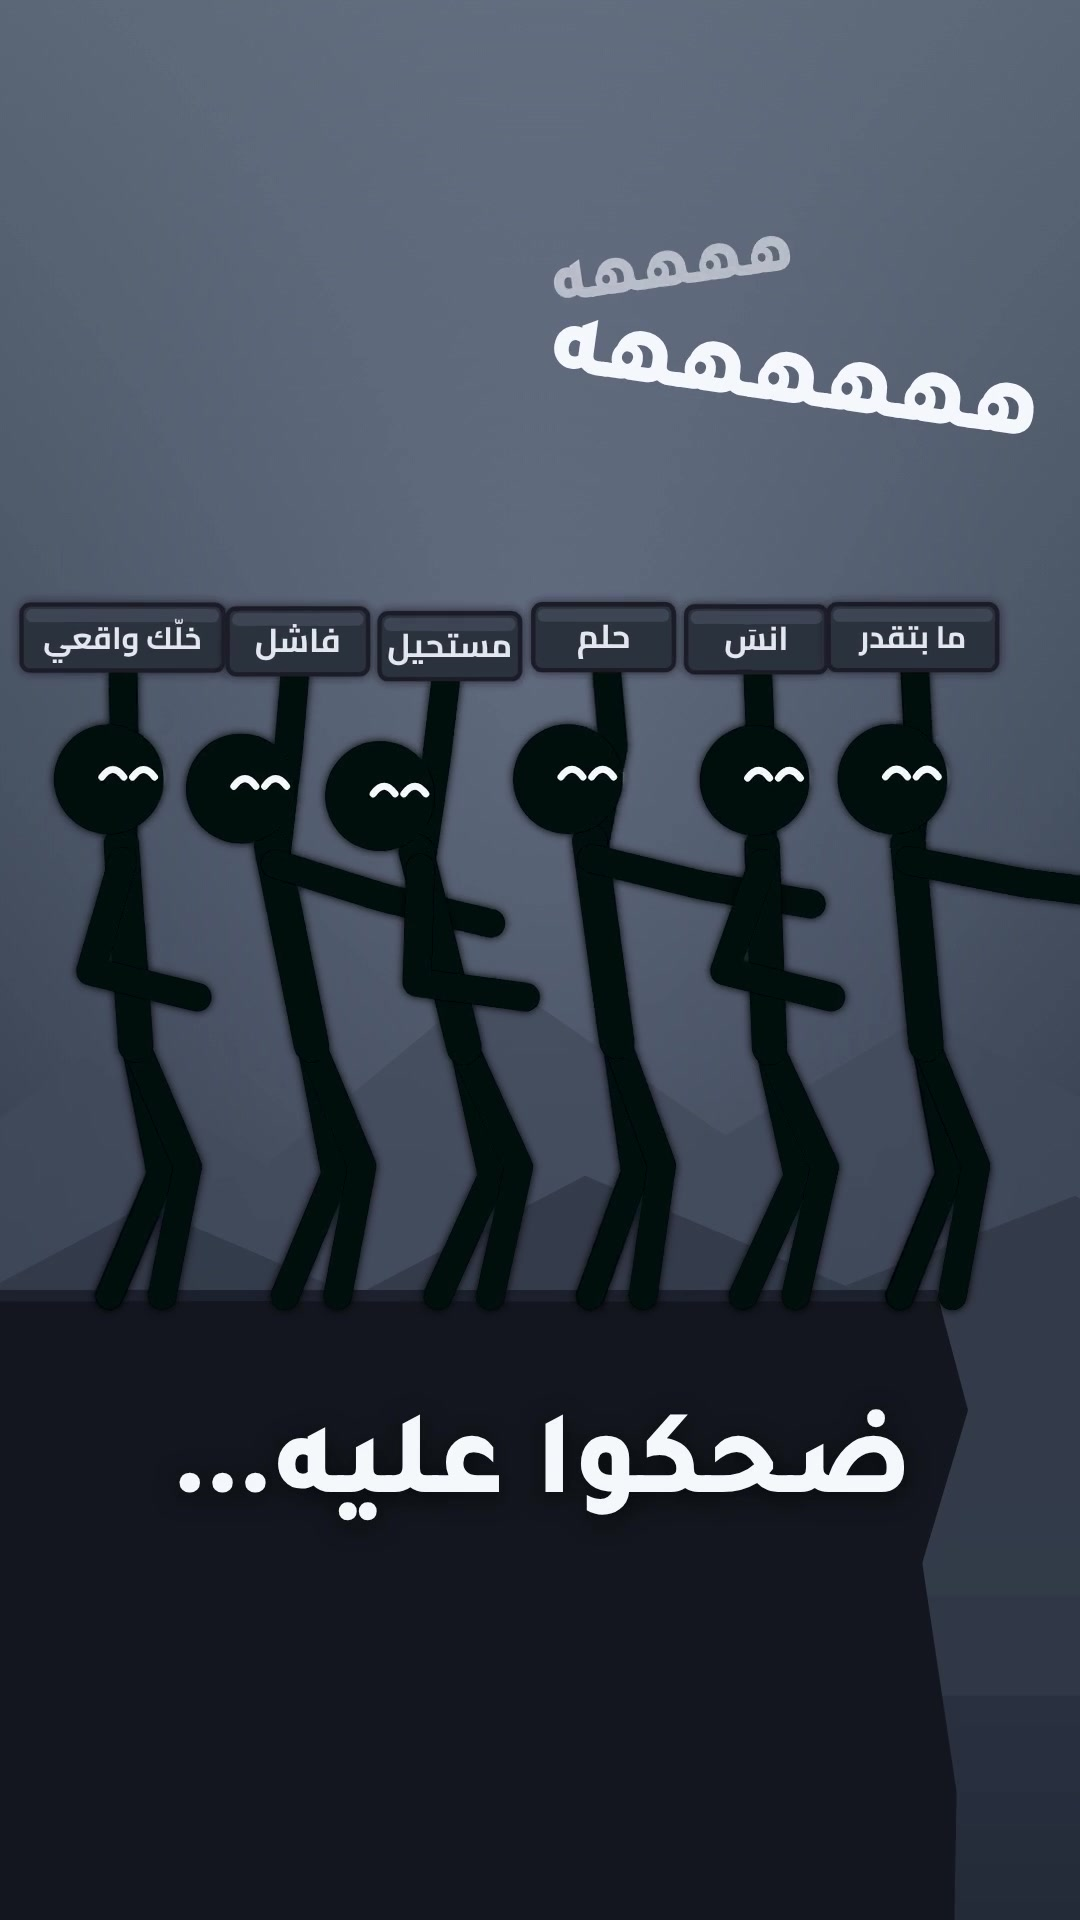
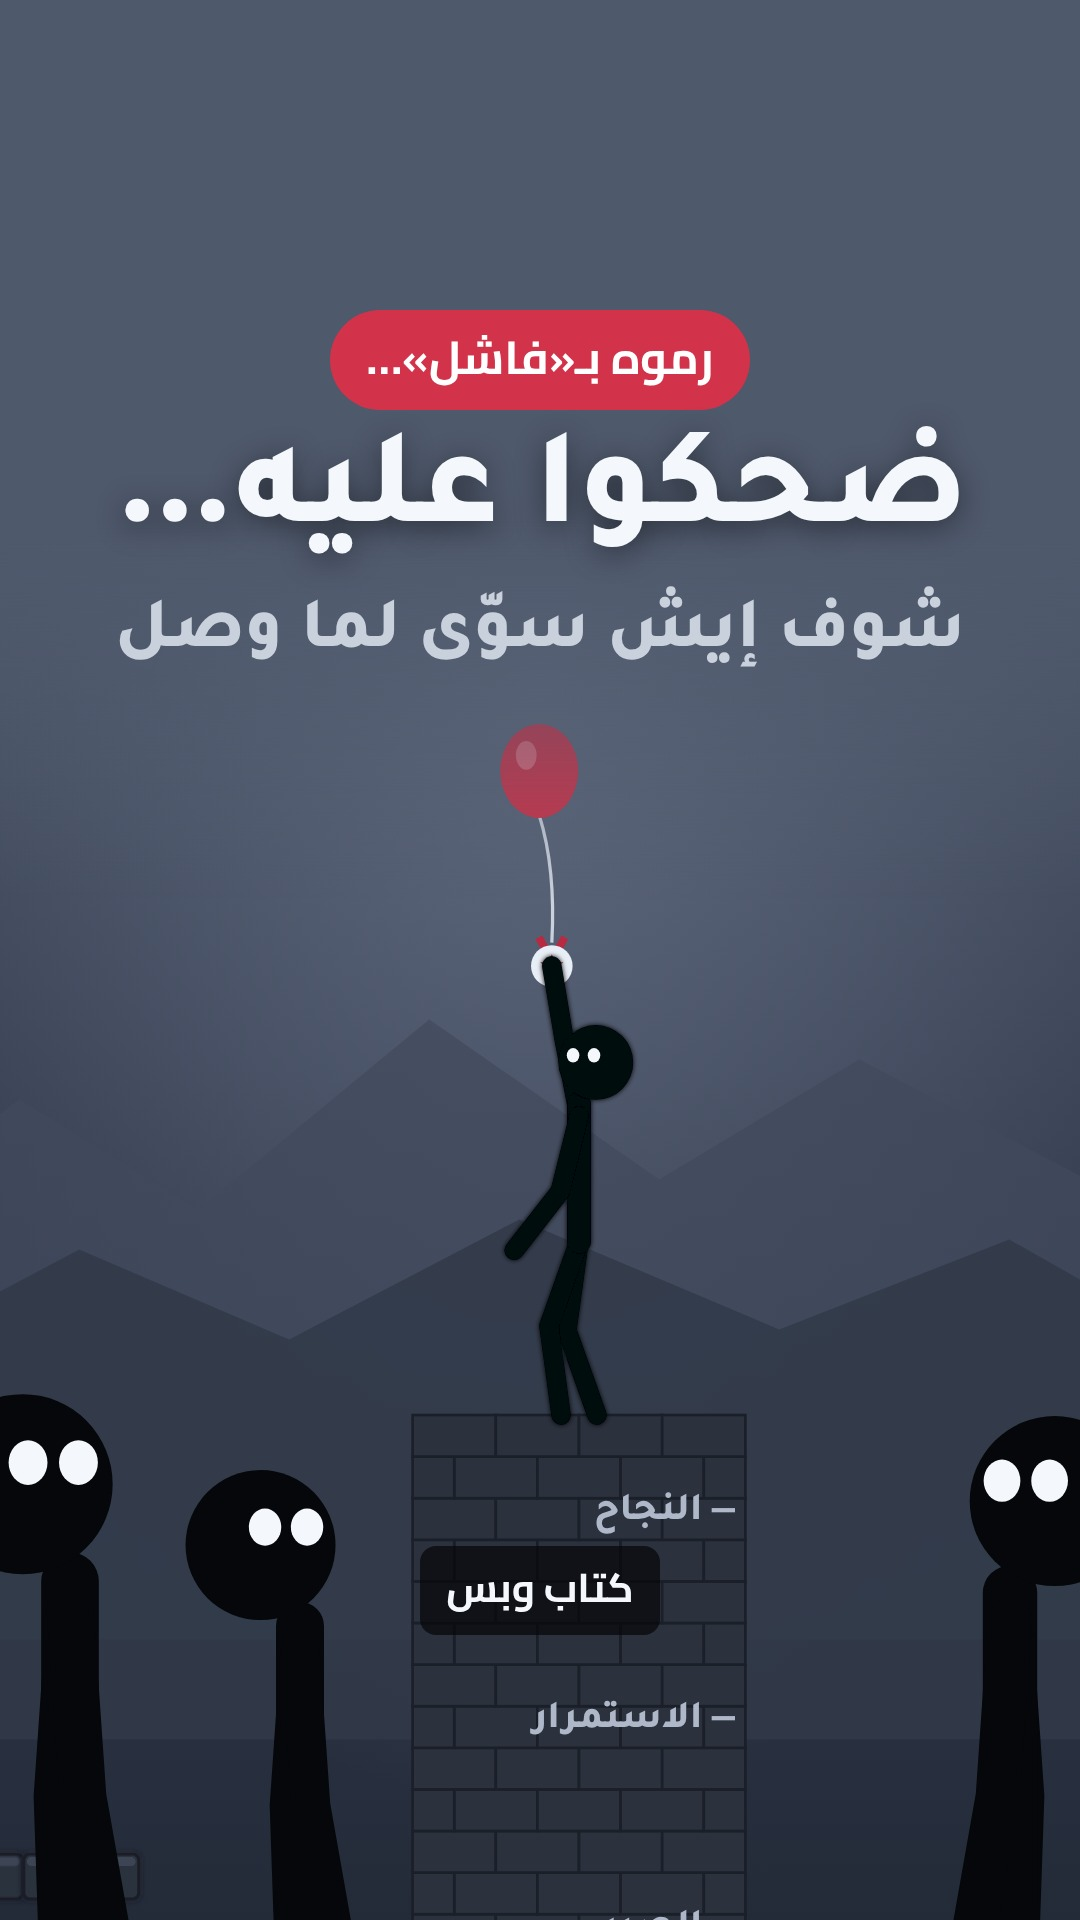
viral-ab: designed covers and titles that match them
- src/covers.tsx: CoverA and CoverB reuse a frame of each reel without its words
  (new `bare`, `still` and `cam` props), with a title over a fade and the signature,
  all inside the 4:5 grid crop.
  A: he holds the balloon up at the top while three of them look up from the
  foreground; «ضحكوا عليه… شوف إيش سوّى لما وصل» keeps the ladder a surprise.
  B: the old man's hand on the boy's head over the new offshoot;
  «يا جدّي… متى بتاكل منها؟ جوابه أخذ 40 سنة».
- publish/platforms.md: main titles now match the covers; the title that gives
  away A's ending is kept as an alternative for a second post.

Claude-Session: https://claude.ai/code/session_01XA9pkr28rDihyc6Sr1HkTS

diff --git a/reels/viral-ab/src/covers.tsx b/reels/viral-ab/src/covers.tsx
@@ -1,0 +1,45 @@
+import React from 'react';
+import { AbsoluteFill } from 'remotion';
+import { ReelA } from './a/A';
+import { ReelB } from './b/B';
+import { BODY, TITLE } from './fonts';
+import { Figure, pose } from './rig';
+
+// Covers: a frame of the reel without its words, a fade behind the title, the title, the signature.
+// Everything that matters sits inside the 4:5 centre crop (y 285–1635) that profile grids show.
+type Look = { ink: string; sub: string; fade: string; accent: string };
+const Title: React.FC<{ kicker: string; big: string; sub: string; look: Look }> = ({ kicker, big, sub, look }) => (
+  <>
+    <div style={{ position: 'absolute', left: 0, right: 0, top: 0, height: 900, background: `linear-gradient(${look.fade} 58%, transparent)` }} />
+    <div dir="rtl" lang="ar" style={{ position: 'absolute', top: 310, left: 60, right: 60, display: 'flex', flexDirection: 'column', alignItems: 'center', gap: 14, textAlign: 'center' }}>
+      <div style={{ fontFamily: BODY, fontWeight: 800, fontSize: 46, color: '#FFFFFF', background: look.accent, borderRadius: 999, padding: '4px 36px 10px' }}>{kicker}</div>
+      <div style={{ fontFamily: TITLE, fontWeight: 800, fontSize: 138, lineHeight: 1.12, color: look.ink, textShadow: '0 6px 30px rgba(0,0,0,0.45)' }}>{big}</div>
+      <div style={{ fontFamily: TITLE, fontWeight: 800, fontSize: 72, lineHeight: 1.2, color: look.sub }}>{sub}</div>
+    </div>
+    <div dir="rtl" lang="ar" style={{ position: 'absolute', top: 1546, left: 0, right: 0, display: 'flex', justifyContent: 'center' }}>
+      <div style={{ fontFamily: BODY, fontWeight: 700, fontSize: 40, color: '#F4F7FB', background: 'rgba(5,7,10,0.72)', borderRadius: 16, padding: '4px 26px 10px' }}>كتاب وبس</div>
+    </div>
+  </>
+);
+
+// A: he is at the top holding up what he reached for; they look up at him in silence. What he does next is the question.
+export const CoverA: React.FC = () => (
+  <AbsoluteFill>
+    <ReelA bare still={Math.round(10.1 * 60)} cam={{ x: 760, y: 210, z: 1.3 }} />
+    {/* the ones who laughed, close in the foreground, silent, looking up at him */}
+    <svg width={1080} height={1920} style={{ position: 'absolute', inset: 0 }}>
+      {[[70, 1, 3.6, 2330], [300, 1, 3.0, 2250], [1010, -1, 3.4, 2300]].map(([x, facing, s, y]) => (
+        <Figure key={x} p={pose({ head: -26, shF: 4, elF: 6, shN: -4, elN: 6 })} x={x} y={y} s={s} facing={facing as 1 | -1} eyes="shock" color="#05070A" eyeColor="#F4F7FB" look={[0.5, -1]} />
+      ))}
+    </svg>
+    <Title kicker="رموه بـ«فاشل»…" big="ضحكوا عليه…" sub="شوف إيش سوّى لما وصل" look={{ ink: '#F4F7FB', sub: '#C9D1DC', fade: '#4F596C', accent: '#D2334A' }} />
+  </AbsoluteFill>
+);
+
+// B: the offshoot just planted, the old man's hand on the boy's head. The question is the title.
+export const CoverB: React.FC = () => (
+  <AbsoluteFill>
+    <ReelB bare still={Math.round(4.15 * 60)} cam={{ x: 540, y: 1480 - 560 / 2.05, z: 2.05 }} />
+    <Title kicker="سأله حفيده:" big="يا جدّي… متى بتاكل منها؟" sub="جوابه أخذ 40 سنة" look={{ ink: '#FBF3F8', sub: '#F3C6D8', fade: '#262955', accent: '#8A3460' }} />
+  </AbsoluteFill>
+);

diff --git a/reels/viral-ab/src/a/A.tsx b/reels/viral-ab/src/a/A.tsx
@@ -131,8 +131,10 @@ const THROWS: Throw[] = [...B.volley.map((v) => ({ t: v.t0, who: v.who })), { t:
 const RELEASE: [number, number] = [44, -262]; // the throwing hand at release, character space
 const release = (i: number): [number, number] => [CROWD[i] + RELEASE[0] * S, CLIFF.top + RELEASE[1] * S];
 
-export const ReelA: React.FC = () => {
-  const f = useCurrentFrame();
+/** `bare` drops the words on screen, `still` holds one frame and `cam` frames it: the covers reuse the picture. */
+export const ReelA: React.FC<{ bare?: boolean; still?: number; cam?: Cam }> = ({ bare = false, still, cam }) => {
+  const now = useCurrentFrame();
+  const f = still ?? now;
   const shot = [...B.shots].reverse().find(([, t]) => f >= at(t as number))![0] as string;
   const idx = (name: string) => B.shots.findIndex(([n]) => n === name);
   const shotStart = (name: string) => at(B.shots[idx(name)][1] as number);
@@ -226,7 +228,7 @@ export const ReelA: React.FC = () => {
     silent: camMix({ x: 210, y: 1080, z: 1.95 }, { x: 205, y: 1070, z: 2.08 }, local('silent')),
     stairs: camMix({ x: 482, y: 694, z: 0.92 }, { x: 478, y: 700, z: 0.98 }, local('stairs')),
   };
-  const c = cams[shot];
+  const c = cam ?? cams[shot];
   const flash = 1 - prog(f, at(B.summit.flash), 22);
   const shake = shot === 'summit' && f >= at(B.summit.flash) ? Math.sin(f * 1.7) * 6 * (1 - prog(f, at(B.summit.flash), 14)) : 0;
 
@@ -303,12 +305,14 @@ export const ReelA: React.FC = () => {
         {world}
         <rect x={0} y={0} width={W} height={H} fill="#FFFFFF" opacity={f >= at(B.summit.flash) ? flash * 0.55 : 0} />
       </svg>
+      {!bare && <>
       {(shot === 'crowd' || shot === 'wide') && <Laughs f={f} c={c} />}
       <Text text="ضحكوا عليه…" o={say1} top={1400} size={120} />
       <Text text="…وصل." o={say2} top={240} size={130} />
       <Text text="وأول ما وصل…" o={end1} top={226} size={88} color={C.textDim} />
       <Text text="نزّل لهم سلّم." o={end2} top={340} size={124} />
       <Text text="كتاب وبس" o={sign * 0.85} top={1560} size={40} weight={700} color={C.textDim} />
+      </>}
       <Audio src={staticFile('audio/a-mix.wav')} />
     </AbsoluteFill>
   );

diff --git a/reels/viral-ab/src/b/B.tsx b/reels/viral-ab/src/b/B.tsx
@@ -117,8 +117,10 @@ const Bubble: React.FC<{ text: string; o: number; x: number }> = ({ text, o, x }
 
 const years = (n: number) => (n === 1 ? 'سنة' : n === 2 ? 'سنتين' : n <= 10 ? `${n} سنوات` : `${n} سنة`);
 
-export const ReelB: React.FC = () => {
-  const f = useCurrentFrame();
+/** `bare` drops the words on screen, `still` holds one frame and `cam` frames it: the covers reuse the picture. */
+export const ReelB: React.FC<{ bare?: boolean; still?: number; cam?: Cam }> = ({ bare = false, still, cam }) => {
+  const now = useCurrentFrame();
+  const f = still ?? now;
   const shot = [...B.shots].reverse().find(([, t]) => f >= at(t as number))![0] as string;
   const idx = (name: string) => B.shots.findIndex(([n]) => n === name);
   const shotStart = (name: string) => at(B.shots[idx(name)][1] as number);
@@ -241,7 +243,7 @@ export const ReelB: React.FC = () => {
     again: camMix(view(690, 1.25), view(720, 1.25), local('again')),
     ask: camMix(view(950, 1.95), view(952, 2.02), local('ask')),
   };
-  const c = cams[shot];
+  const c = cam ?? cams[shot];
 
   // soil from the hole: tossed at each stroke onto a mound beside it
   const strokesDone = D.strokes.filter((s) => f >= at(s) + 16).length;
@@ -302,12 +304,14 @@ export const ReelB: React.FC = () => {
         <Sky c={c} night={night} />
         {world}
       </svg>
+      {!bare && <>
       <Bubble text="يا جدّي… متى بتاكل منها؟" o={ask1} x={head(bx, KID)[0]} />
       <Bubble text="يا بابا… متى بتاكل منها؟" o={ask2} x={head(girlX, 0.6)[0]} />
       {yearsShown > 0 && <Text text={years(yearsShown)} o={yo} top={250} size={96} />}
       <Text text="زرعوا… فأكلنا." o={Math.min(1, t1)} top={shot === 'ask' ? 230 : 260} size={shot === 'ask' ? 84 : 112} color={shot === 'ask' ? C.textDim : C.text} />
       <Text text="ونزرع… فيأكلون." o={t2} top={350} size={118} />
       <Text text="كتاب وبس" o={sign * 0.85} top={1600} size={40} weight={700} color={C.textDim} />
+      </>}
       <Audio src={staticFile('audio/b-mix.wav')} />
     </AbsoluteFill>
   );

diff --git a/reels/viral-ab/src/Root.tsx b/reels/viral-ab/src/Root.tsx
@@ -3,6 +3,7 @@ import { Composition } from 'remotion';
 import { loadFonts } from './fonts';
 import { A_FRAMES, H, ReelA, W } from './a/A';
 import { B_FRAMES, ReelB } from './b/B';
+import { CoverA, CoverB } from './covers';
 
 loadFonts();
 
@@ -10,5 +11,7 @@ export const Root: React.FC = () => (
   <>
     <Composition id="A" component={ReelA} durationInFrames={A_FRAMES} fps={60} width={W} height={H} />
     <Composition id="B" component={ReelB} durationInFrames={B_FRAMES} fps={60} width={W} height={H} />
+    <Composition id="CoverA" component={CoverA} durationInFrames={1} fps={60} width={W} height={H} />
+    <Composition id="CoverB" component={CoverB} durationInFrames={1} fps={60} width={W} height={H} />
   </>
 );

diff --git a/reels/viral-ab/publish/platforms.md b/reels/viral-ab/publish/platforms.md
@@ -8,18 +8,22 @@
 
 - لا يوجد تعليق صوتي في الفيديوهين، والكلام كله مكتوب على الشاشة. لذلك لا يحتاجان ترجمة، ويفهمهما من يشاهد بلا صوت.
 - الموسيقى والمؤثرات مُركّبة بالكود (`tools/music.py`). لا عينات فيها ولا تراخيص.
-- في الغلافين يقع العنوان والوجوه داخل قصّ 4:5 الظاهر في شبكة الحساب.
+- **الغلافان مصمّمان:** كل غلاف لقطة من الفيديو نفسه بلا نصوصه، وفوقها عنوان كبير. المصدر `src/covers.tsx`، ويُعاد إخراجهما بأمر `npx remotion still CoverA` وأمر `npx remotion still CoverB`.
+  - **غلاف A:** هو في القمة يرفع البالون، وهم أسفل الصورة صامتون ينظرون إليه. العنوان: «ضحكوا عليه… شوف إيش سوّى لما وصل». لا يكشف السلّم.
+  - **غلاف B:** يد الجدّ على رأس حفيده فوق الفسيلة. العنوان: «يا جدّي… متى بتاكل منها؟ جوابه أخذ 40 سنة».
+  - العنوان والوجوه داخل قصّ 4:5 الظاهر في شبكة الحساب.
 - لم يُنشر شيء. النشر ينتظر أمرك.
 
 ## الفيديو A: «ضحكوا عليه…»
 
-**العنوان**
+**العنوان** (يطابق الغلاف ويُخفي النهاية حتى يكمل المشاهد الفيديو)
 ```
-ضحكوا عليه… فنزّل لهم سلّم
+ضحكوا عليه… شوف إيش سوّى لما وصل
 ```
 بدائل:
-- `كل طوبة رموها عليه… صارت درجة`
 - `رموه بـ«فاشل»… فبنى فيها`
+- `كل طوبة رموها عليه… صارت درجة`
+- `ضحكوا عليه… فنزّل لهم سلّم` (يكشف النهاية؛ يصلح للنشر الثاني أو للقصص)
 
 **يوتيوب شورتس: الوصف**
 ```
@@ -50,11 +54,12 @@
 
 ## الفيديو B: «النخلة»
 
-**العنوان**
+**العنوان** (يطابق الغلاف)
 ```
-«يا جدّي… متى بتاكل منها؟»
+يا جدّي… متى بتاكل منها؟ جوابه أخذ 40 سنة
 ```
 بدائل:
+- `«يا جدّي… متى بتاكل منها؟»`
 - `زرعوا فأكلنا… ونزرع فيأكلون`
 - `ما أكل منها… بس إحنا أكلنا`
 
